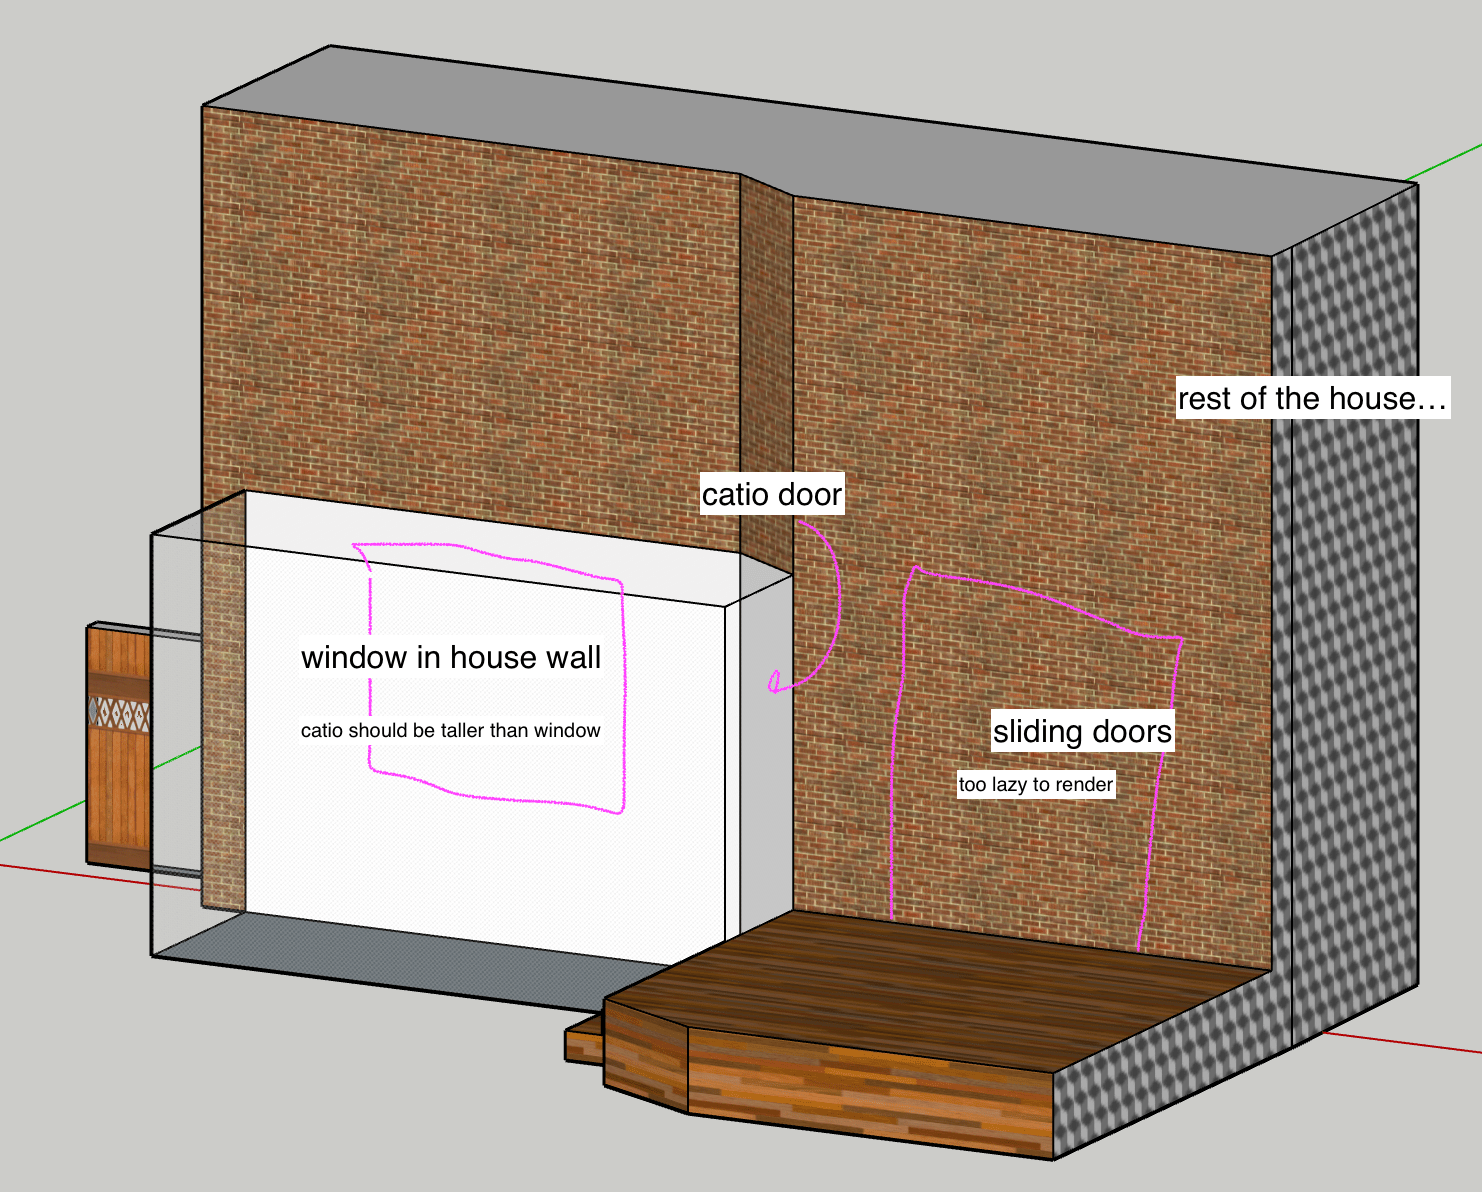
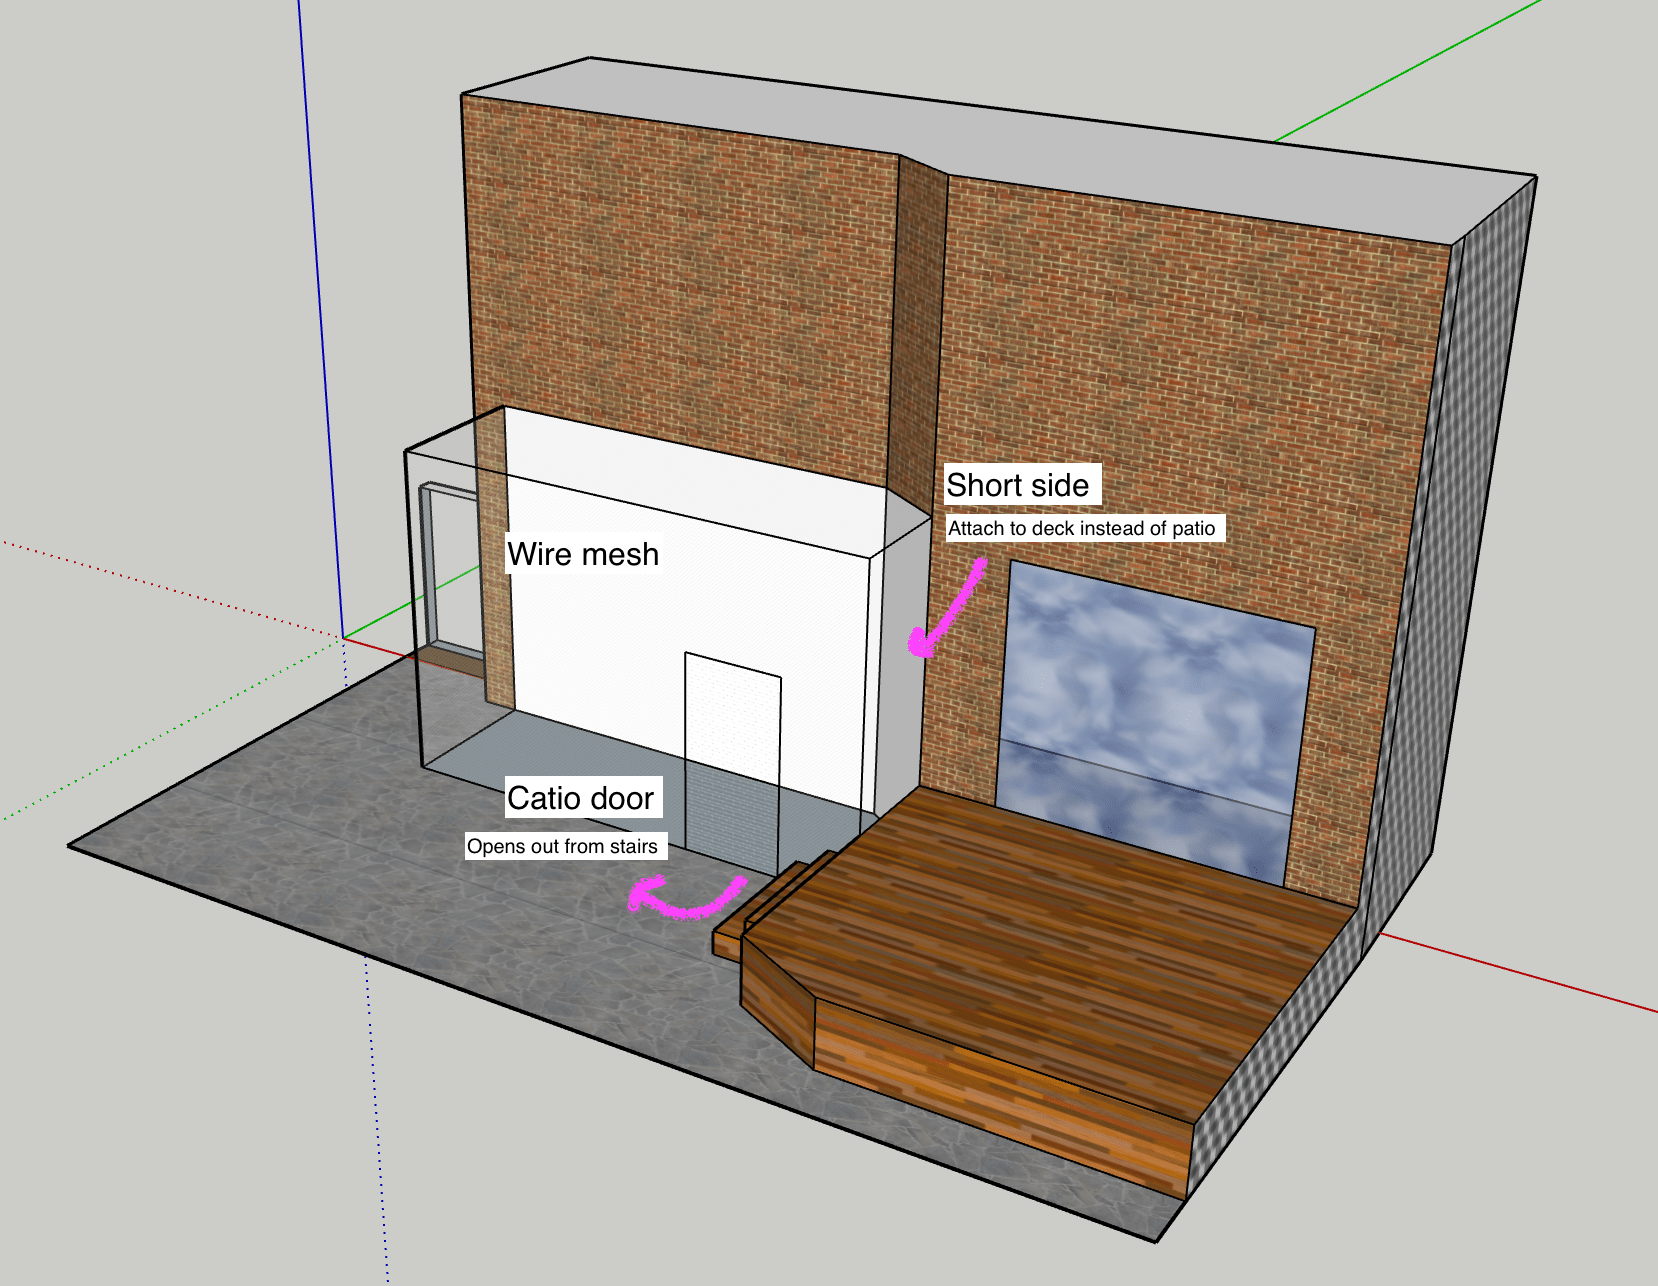
update images and copy

diff --git a/one-off-pages/catio.html b/one-off-pages/catio.html
@@ -64,15 +64,15 @@
 				<p>
 					I'm looking to get a metal catio custom-built, since it seems like
 					Canada doesn't really have anything off the shelf here. The US, Europe
-					and even AUSTRALIA have them so this is probably a huge untapped market
-					👀
+					and even AUSTRALIA have them so this is probably a huge untapped
+					market 👀
 				</p>
 				<h2>Requirements</h2>
 				<ul>
 					<li>
-						Rough dimensions: 9-10ft tall, possibly taller depending on window
-						height (still need to measure), 10ft long, 5ft wide (irregular
-						shape, see sketch)
+						Rough dimensions: 9-10ft tall, 6-8ft long, 5ft wide (irregular
+						shape, see sketches), with one "short" side where the panel should
+						be attached to the deck instead
 					</li>
 					<li>
 						Some sort of metal construction (powder coated steel? galvanized
@@ -87,9 +87,15 @@
 					<li>Should outlast the cats</li>
 				</ul>
 				<p>
-					This is a sketchup of where we want to place it:
+					This is a sketchup of where we want to locate it and a lay of the
+					land. We figure we only need wire on the sides that aren't already the
+					brick wall.
 				</p>
-				<div class="catio">
+				<p>
+					Ideally it would be attached to the brick wall and/or patio stones.
+					The top can be open (no wire mesh).
+				</p>
+				<div class="catio sketchup">
 					<img
 						src="../img/one-off-pages/catio-side-view.png"
 						alt="patio view"
@@ -132,9 +138,9 @@
 					</li>
 					<ul>
 						<li>
-							Not a fan of the shorter door height, but we like the different colour options
-							available. Not sure if something similar would be available in
-							Canada or be able to handle our climate.
+							Not a fan of the shorter door height, but we like the different
+							colour options available. Not sure if something similar would be
+							available in Canada or be able to handle our climate.
 						</li>
 					</ul>
 				</ul>
@@ -169,6 +175,16 @@
 						>
 					</li>
 				</ul>
+				<p>
+					Also lowkey this chain link trucker cage doesn't look too bad for a
+					catio either, if that's a cheaper option
+				</p>
+				<div class="catio trucker">
+					<img
+						src="../img/one-off-pages/trucker-cage.png"
+						alt="Reddit post in r/mildlyinfuriating showing a chainlink wire driver cage"
+					/>
+				</div>
 			</section>
 		</main>
 	</body>

diff --git a/css/catio.css b/css/catio.css
@@ -20,4 +20,12 @@
 		object-fit: contain;
 		margin-bottom: 0;
 	}
+
+	.catio.sketchup img {
+		height: 400px;
+	}
+
+	.catio.trucker img {
+		height: 500px;
+	}
 }
